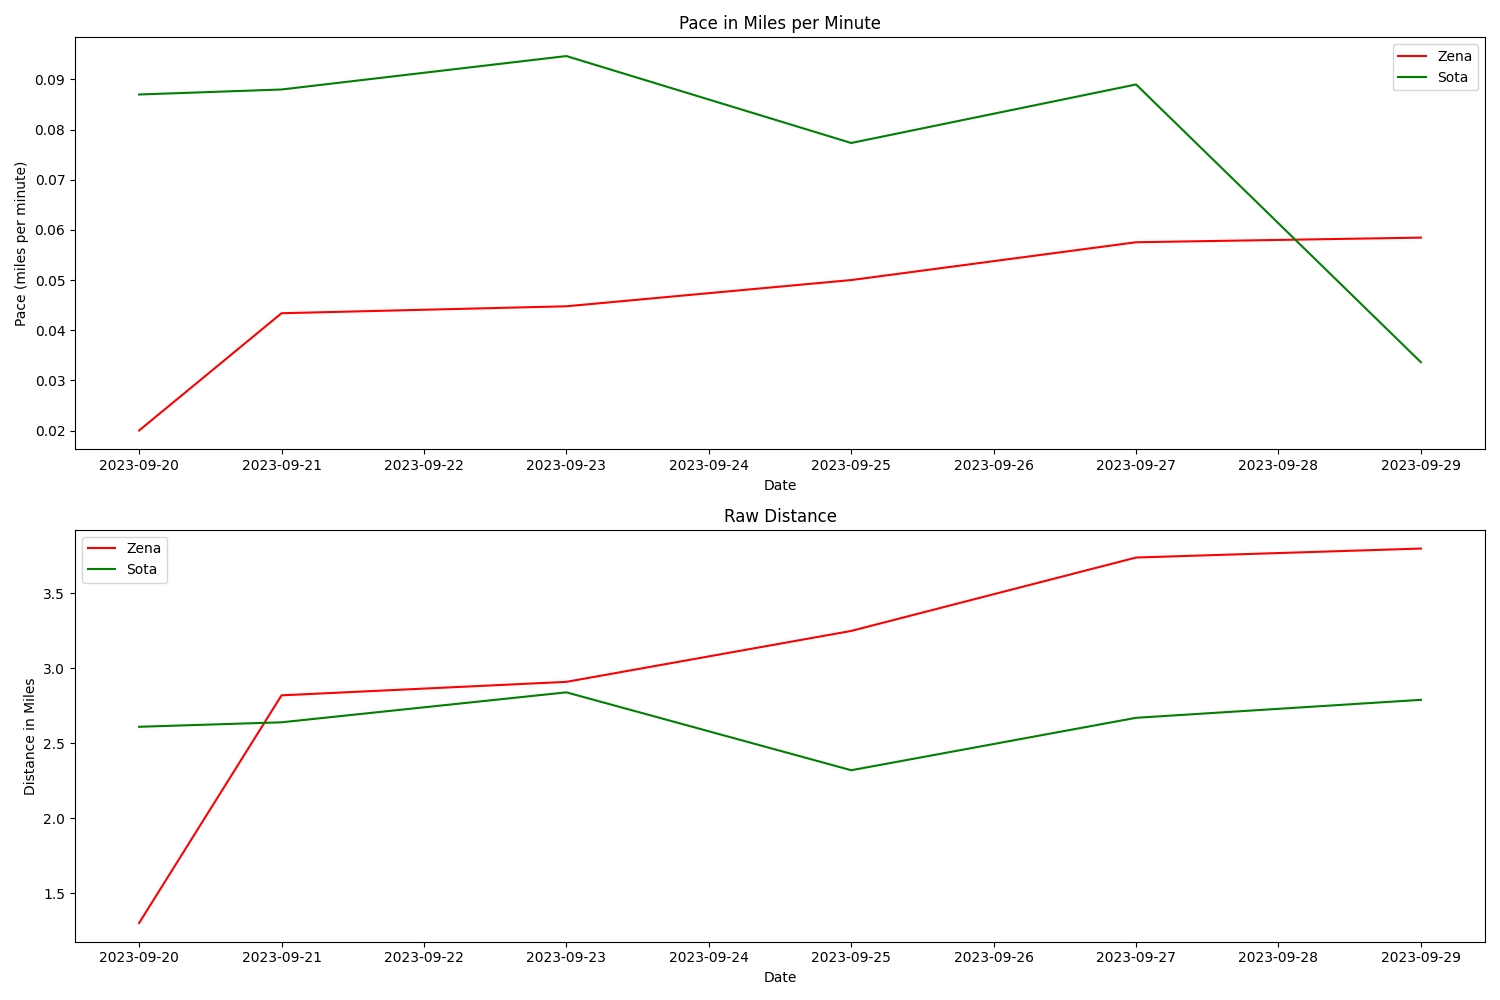
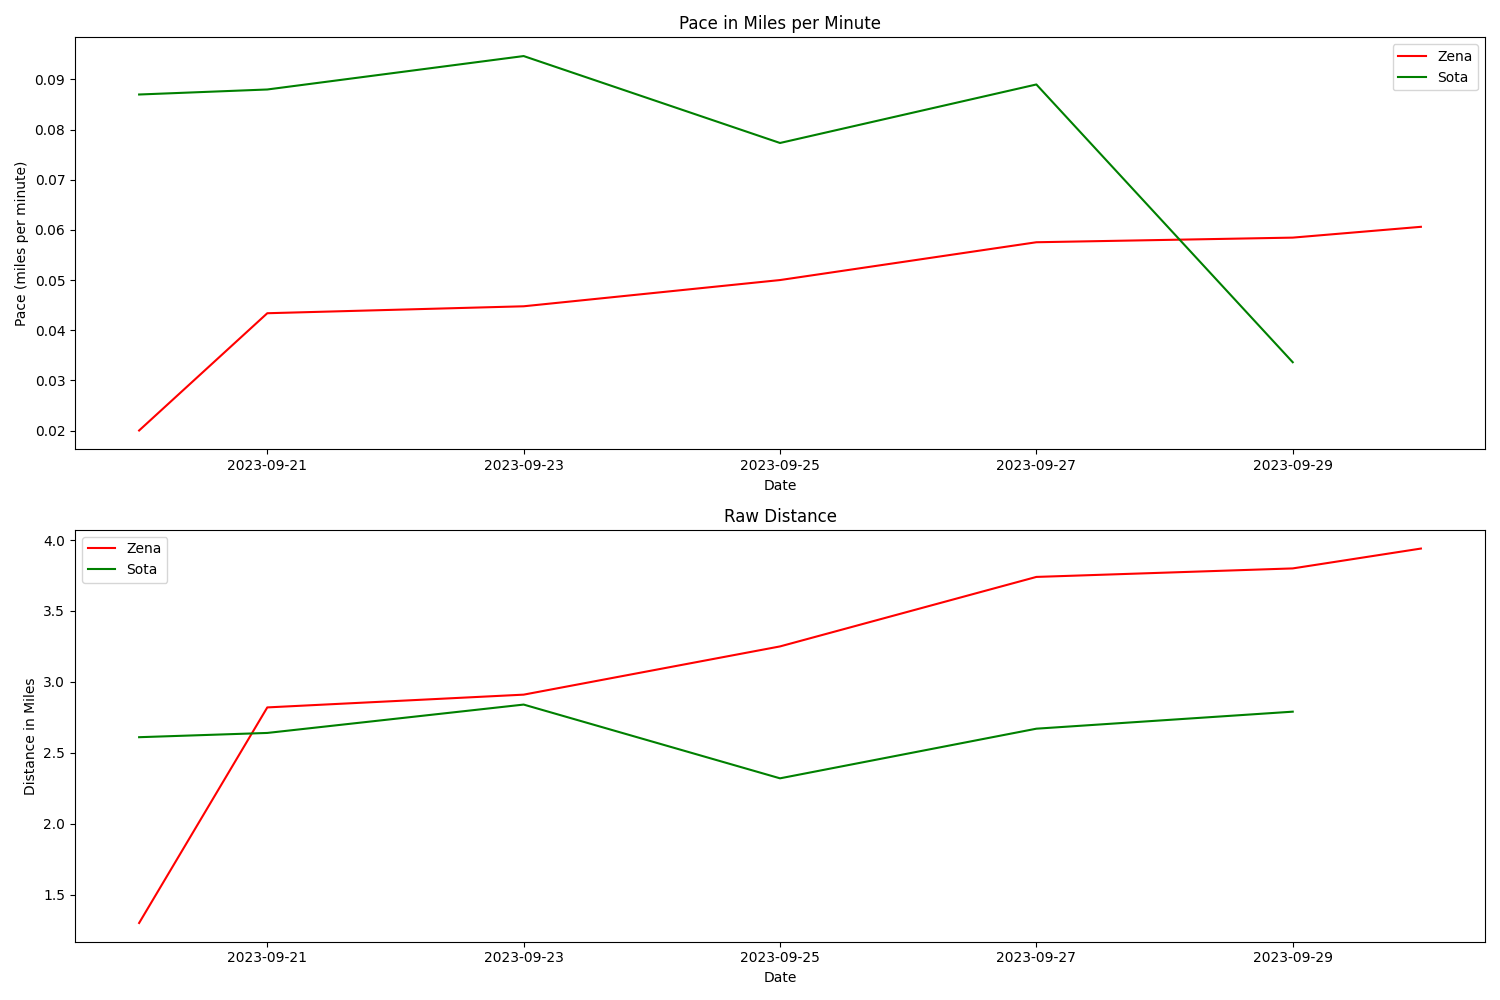
Daily workout update

diff --git a/zena_data.py b/zena_data.py
@@ -4,5 +4,6 @@ ZENA_DATA = [
     {"date": "2023-09-23", "distance_miles": 2.91, "time_minutes": 65, "name": "Zena"},
     {"date": "2023-09-25", "distance_miles": 3.25, "time_minutes": 65, "name": "Zena"},
     {"date": "2023-09-27", "distance_miles": 3.74, "time_minutes": 65, "name": "Zena"},
-    {"date": "2023-09-29", "distance_miles": 3.80, "time_minutes": 65, "name": "Zena"}
+    {"date": "2023-09-29", "distance_miles": 3.80, "time_minutes": 65, "name": "Zena"},
+    {"date": "2023-09-30", "distance_miles": 3.94, "time_minutes": 65, "name": "Zena"}
 ]
